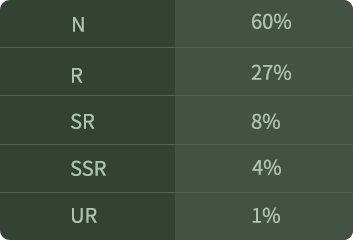
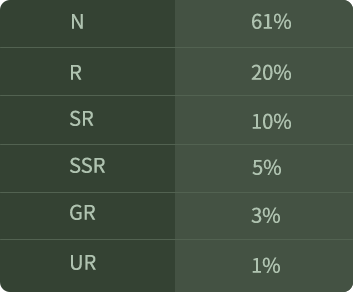
GitBook: [#124] No subject

diff --git a/game-play/elfball.md b/game-play/elfball.md
@@ -10,7 +10,7 @@ There are 8,000 Creation pokeballs, 4,000 of which cost 0.2 BNB each, and up to 
 
 ![](../.gitbook/assets/Rarity.png)
 
-**The rarity level is** UR > SSR > SR > R > N.
+**The rarity level is** UR >GR > SSR > SR > R > N.
 
 | Abbreviation | Full Name           |
 | ------------ | ------------------- |
@@ -18,4 +18,5 @@ There are 8,000 Creation pokeballs, 4,000 of which cost 0.2 BNB each, and up to 
 | R            | Rare                |
 | SR           | Super Rare          |
 | SSR          | Superior Super Rare |
+| UR           | Gold Rare           |
 | UR           | Ultra Rare          |
